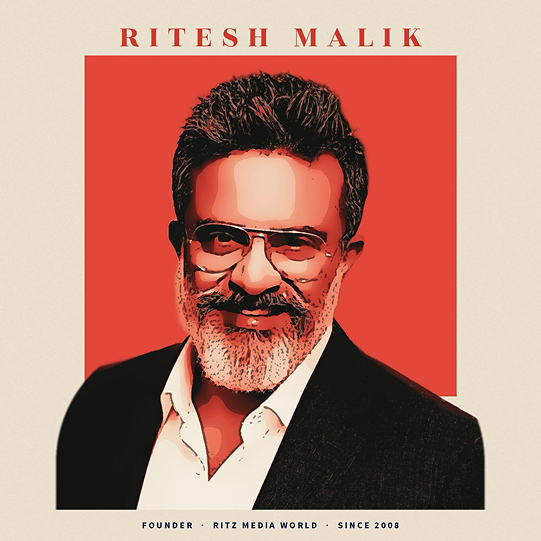
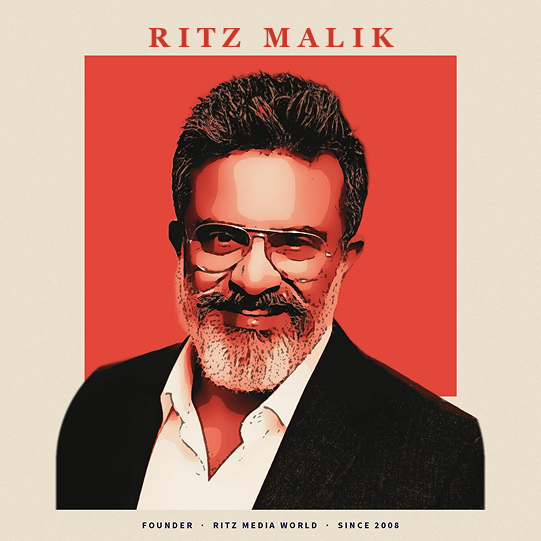
new changes

Changed region(s): [[0.207, 0.0296, 0.7985, 0.0887]]

diff --git a/src/components/about/AboutFounder.tsx b/src/components/about/AboutFounder.tsx
@@ -14,6 +14,36 @@ registerGsap();
 //   { when: "Today", detail: "Leads RMW across strategy, creative, media and AI" },
 // ] as const;
 
+type Founder = {
+  portrait: string;
+  alt: string;
+  kicker: string;
+  title: [string, string];
+  role: string;
+  lede: string;
+  reverse?: boolean;
+};
+
+const FOUNDERS: Founder[] = [
+  {
+    portrait: "/about/founder-portrait.png",
+    alt: "Ritz Malik, founder of Ritz Media World since 2008",
+    kicker: "Founder details & journey",
+    title: ["The visionary", "behind the wheel"],
+    role: "Ritz Malik · Founder & Promoter, Ritz Media World And Creative Thinks Media",
+    lede: "Mr. Ritz Malik founded Ritz Media World in August 2008 with a simple belief: brands deserve ideas that are built on insight, not assumption. Over 18 years, he has steered the agency through every major shift in Indian marketing, growing it from a creative studio into a full-service creative, digital, and media partner for brands across industries. He also founded Creative Thinks Media. Even as data and AI reshape the industry, Mr. Malik remains convinced that brands win through clear, authentic, and well-crafted storytelling.",
+  },
+  {
+    portrait: "/about/cofounder-portrait.png",
+    alt: "Satvinder Kaur, co-founder of Ritz Media World",
+    kicker: "Co-founder details & journey",
+    title: ["The strength", "behind the studio"],
+    role: "Satvinder Kaur · Co-Founder, Ritz Media World",
+    lede: "Ms. Satvinder Kaur is the name everyone at Ritz Media World knows the moment they walk into the room. Alongside Mr. Malik, she has helped build the agency from its earliest days, keeping its people, its clients, and its day-to-day work running with the same care that goes into every campaign.",
+    reverse: true,
+  },
+];
+
 type Dot = {
   x: number;
   y: number;
@@ -74,6 +104,16 @@ function easeOut(value: number) {
 }
 
 export function AboutFounder() {
+  return (
+    <>
+      {FOUNDERS.map((founder) => (
+        <FounderFeature key={founder.portrait} founder={founder} />
+      ))}
+    </>
+  );
+}
+
+function FounderFeature({ founder }: { founder: Founder }) {
   const rootRef = useRef<HTMLElement>(null);
   const { ready, reduced } = useMotion();
 
@@ -217,7 +257,10 @@ export function AboutFounder() {
   );
 
   return (
-    <section ref={rootRef} className="about-founder">
+    <section
+      ref={rootRef}
+      className={founder.reverse ? "about-founder about-founder--reverse" : "about-founder"}
+    >
       <div className="about-founder-layout">
         <div className="about-founder-visual">
           {/* eslint-disable-next-line @next/next/no-img-element */}
@@ -232,8 +275,8 @@ export function AboutFounder() {
             {/* eslint-disable-next-line @next/next/no-img-element */}
             <img
               className="about-founder-portrait"
-              src="/about/founder-portrait.png"
-              alt="Ritesh Malik, founder of Ritz Media World since 2008"
+              src={founder.portrait}
+              alt={founder.alt}
               width={541}
               height={541}
             />
@@ -241,18 +284,14 @@ export function AboutFounder() {
           </figure>
         </div>
         <div className="about-founder-copy">
-          <p className="about-founder-kicker">Founder details &amp; journey</p>
+          <p className="about-founder-kicker">{founder.kicker}</p>
           <h2 className="about-founder-title">
-            The visionary 
+            {founder.title[0]}
             <br />
-            behind the wheel
+            {founder.title[1]}
           </h2>
-          <p className="about-founder-role">
-            Ritesh Malik · Founder &amp; Promoter, Ritz Media World And Creative Thinks Media
-          </p>
-          <p className="about-founder-lede">
-            Mr. Ritesh Malik founded Ritz Media World in August 2008 with a simple belief: brands deserve ideas that are built on insight, not assumption. Over 18 years, he has steered the agency through every major shift in Indian marketing, growing it from a creative studio into a full-service creative, digital, and media partner for brands across industries. He also founded Creative Thinks Media. Even as data and AI reshape the industry, Mr. Malik remains convinced that brands win through clear, authentic, and well-crafted storytelling.
-          </p>
+          <p className="about-founder-role">{founder.role}</p>
+          <p className="about-founder-lede">{founder.lede}</p>
           {/* <ol className="about-founder-list">
             {STOPS.map((stop) => (
               <li key={stop.detail}>

diff --git a/src/lib/site.ts b/src/lib/site.ts
@@ -314,7 +314,7 @@ export const site = {
         year: "2025",
         heading: "ET Young Industry Leaders",
         subtitle: "Integrated advertising solutions",
-        alt: "ET Young Industry Leaders 2025 award presented to Ritesh Malik",
+        alt: "ET Young Industry Leaders 2025 award presented to Ritz Malik",
         src: "/awards/et-young-industry-leaders-2025.png",
         copy: "Recognition for excellence in integrated advertising solutions.",
       },
@@ -332,7 +332,7 @@ export const site = {
         subtitle: "Business leadership",
         alt: "ET Business Leaders 2024 trophy",
         src: "/awards/et-business-leaders-2024.jpg",
-        copy: "Ritz Media World founder Ritesh Malik was recognised among the ET Business Leaders.",
+        copy: "Ritz Media World founder Ritz Malik was recognised among the ET Business Leaders.",
       },
       {
         year: "2025",
@@ -340,7 +340,7 @@ export const site = {
         subtitle: "Podmasters",
         alt: "Podmasters award for Best Real Estate Podcast",
         src: "/awards/podmasters-real-estate-podcast-2024.jpg",
-        copy: "Recognition for Ritesh Malik and the real estate podcast, Beyond the Blueprint.",
+        copy: "Recognition for Ritz Malik and the real estate podcast, Beyond the Blueprint.",
       },
       {
         year: "2011",
@@ -413,7 +413,7 @@ export const site = {
     faqs: [
       {
         q: "When was Ritz Media World founded, and by whom?",
-        a: "Ritz Media World was founded in August 2008 by Mr. Ritesh Malik, who has led the agency ever since. He also founded Creative Thinks Media, a sister agency.",
+        a: "Ritz Media World was founded in August 2008 by Mr. Ritz Malik, who has led the agency ever since. He also founded Creative Thinks Media, a sister agency.",
       },
       {
         q: "Where is Ritz Media World based?",

diff --git a/src/styles/about/founder.css b/src/styles/about/founder.css
@@ -45,6 +45,20 @@
   transform: translateX(-50%);
 }
 
+.about-founder--reverse {
+  padding: var(--fd-pad-y) var(--fd-pad-l) var(--fd-pad-y) clamp(28px, 4vw, 72px);
+}
+
+.about-founder--reverse .about-founder-layout {
+  flex-direction: row-reverse;
+}
+
+.about-founder--reverse .about-founder-stripes {
+  left: auto;
+  right: calc(var(--fd-pad-l) + var(--fd-size) / 2);
+  transform: translateX(50%);
+}
+
 .about-founder-card {
   position: relative;
   z-index: 1;
@@ -199,7 +213,8 @@
     padding: 48px 20px 56px;
   }
 
-  .about-founder-layout {
+  .about-founder-layout,
+  .about-founder--reverse .about-founder-layout {
     flex-direction: column;
     align-items: center;
     width: 100%;
@@ -228,9 +243,11 @@
     overflow: hidden;
   }
 
-  .about-founder-stripes {
+  .about-founder-stripes,
+  .about-founder--reverse .about-founder-stripes {
     top: 0;
     bottom: 0;
+    right: auto;
     left: 50%;
     width: 56px;
     height: 100%;
